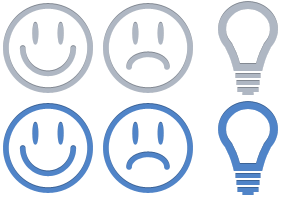
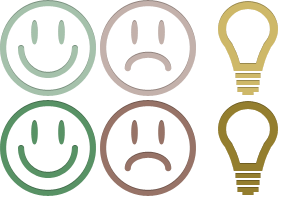
Added colors for happy/sad pages

Changed region(s): [[0.0, 0.0, 0.66, 0.99], [0.72, 0.0, 0.93, 0.99], [0.18, 0.09, 0.24, 0.24]]

diff --git a/style.css b/style.css
@@ -57,6 +57,7 @@ article header {
 	padding: 20px 35px;
 	background: -moz-linear-gradient(#FFFFFF, #F7F8F9);
 	background: -moz-radial-gradient(center 0, #fff, #ebedf0);
+	color: #6d7581;
 	border-radius: 10px 10px 0 0;
 	box-shadow: inset 0 -1px 0 rgba(0,0,0,.00);
 	text-shadow: 0 1px 0 rgba(255,255,255,.5);
@@ -85,7 +86,6 @@ article header {
 		font-style: italic;
 */
 		font-size: 18px;
-		color: #6d7581;
 	}
 		article header p span {
 			display: block;
@@ -366,6 +366,9 @@ footer:hover {
 				text-decoration: none;
 				-moz-transition: color .25s;
 			}
+			#intro #feedback-types-beta #intro-happy { color: #568E62; }
+			#intro #feedback-types-beta #intro-sad { color: #977367; }
+			#intro #feedback-types-beta #intro-idea { color: #947E2E; }
 			#intro .content li a:hover {
 				color: #5084C8;
 				text-decoration: underline;
@@ -653,9 +656,25 @@ footer:hover {
 			bottom: 0;
 		}
 
+#happy {
+}
+	#happy header {
+		background: -moz-radial-gradient(center 0, #fff, #e9f1eb);
+		color: #728676;
+	}
+		#happy header h1 {
+			color: #35563c;
+		}
 
 #sad {
 }
+	#sad header {
+		background: -moz-radial-gradient(center 0, #fff, #f1ecea);
+		color: #80716c;
+	}
+		#sad header h1 {
+			color: #533f38;
+		}
 	#sad-url {
 		display: inline;
 	}
